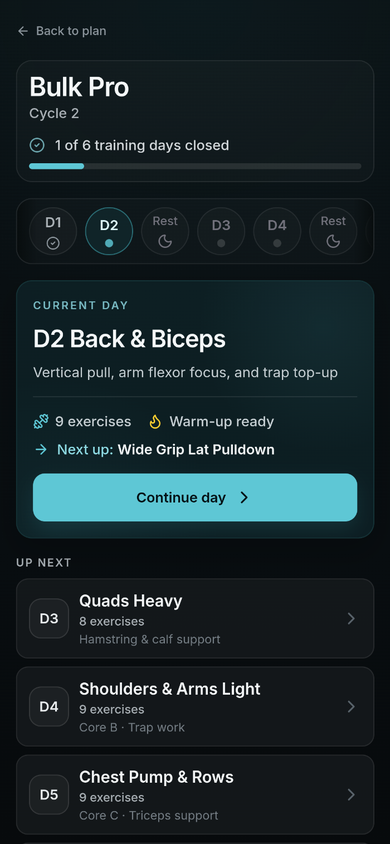
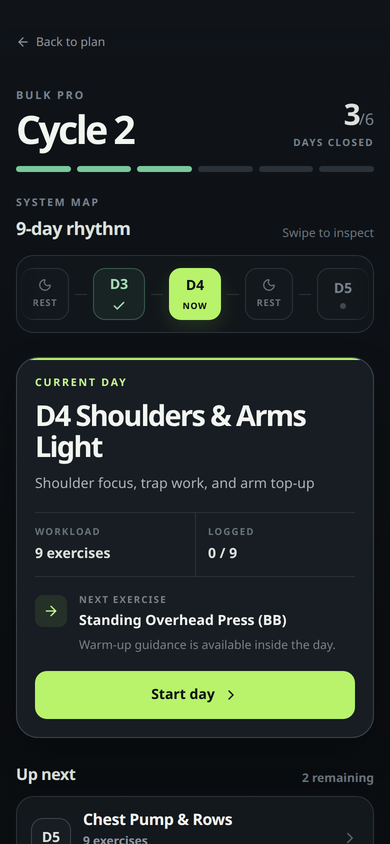
docs: finalize README and refreshed screenshots

diff --git a/README.md b/README.md
@@ -13,7 +13,7 @@ Continuity across the cycle.
 
 Users can see what to do, how to approach it, what they logged previously, and what comes next. The cycle-based structure keeps training order stable when real-life schedules change without turning flexibility into random workout selection.
 
-The current release is intentionally local-first and MVP-scoped. It focuses on validating the product flow, training-state model, persistence logic, educational layer, and mobile workout experience before adding accounts, cloud sync, payments, or broader customization.
+Version 0.6.0 is the current **Limited Public Preview** release. The MVP remains intentionally local-first and focused on validating the product flow, training-state model, persistence logic, educational layer, and mobile workout experience before accounts, cloud sync, payments, or broader customization are introduced.
 
 ---
 
@@ -21,9 +21,7 @@ The current release is intentionally local-first and MVP-scoped. It focuses on v
 
 Firebase Hosting:
 
-```text
-https://training-app-mvp.web.app
-```
+[Open Cycle Coach](https://training-app-mvp.web.app/)
 
 Current application version:
 
@@ -46,6 +44,7 @@ Workout progress is stored locally in the browser. Normal Firebase Hosting reque
 ## Table of Contents
 
 - [Overview](#overview)
+- [Screenshots](#screenshots)
 - [Core Features](#core-features)
 - [App Flow](#app-flow)
 - [Public Preview Surfaces](#public-preview-surfaces)
@@ -59,7 +58,6 @@ Workout progress is stored locally in the browser. Normal Firebase Hosting reque
 - [Tech Stack](#tech-stack)
 - [Running Locally](#running-locally)
 - [Verification](#verification)
-- [Screenshots](#screenshots)
 - [Current Status](#current-status)
 - [MVP Scope](#mvp-scope)
 - [Known MVP Limitations](#known-mvp-limitations)
@@ -115,6 +113,31 @@ Know what to do.
 Know how to approach it.
 Know what comes next.
 ```
+
+---
+
+## Screenshots
+
+Real **v0.6.0 — Limited Public Preview** production screens in the **Cold Performance / Structured Coaching** interface, using isolated demonstration progress.
+
+Follow the flow from plan selection through an active Bulk Pro cycle, exercise and Core logging, training guidance, and a completed-cycle recap. Each full image is captured at **390 × 844 CSS pixels, DPR 2** (780 × 1688 PNG). Select a thumbnail to open the full-resolution image.
+
+<p align="center">
+   <a href="docs/screenshots/home.png"><img src="docs/screenshots/thumbs/home.png" alt="Cycle Coach home with four training benefits and plan selection" width="230" /></a>
+   <a href="docs/screenshots/plan-overview.png"><img src="docs/screenshots/thumbs/plan-overview.png" alt="Bulk Pro overview with Cycle 2 progress and the plan contract" width="230" /></a>
+   <a href="docs/screenshots/cycle-dashboard.png"><img src="docs/screenshots/thumbs/cycle-dashboard.png" alt="Bulk Pro Cycle 2 dashboard with 3 of 6 days closed and D4 current" width="230" /></a>
+</p>
+
+<p align="center">
+   <a href="docs/screenshots/day-screen.png"><img src="docs/screenshots/thumbs/day-screen.png" alt="D4 Shoulders and Arms Light with the next exercise and workout sequence" width="230" /></a>
+   <a href="docs/screenshots/exercise-logging.png"><img src="docs/screenshots/thumbs/exercise-logging.png" alt="Standing Overhead Press logging with two performed sets and previous values" width="230" /></a>
+   <a href="docs/screenshots/core-workflow.png"><img src="docs/screenshots/thumbs/core-workflow.png" alt="D4 Core B support work with Hanging Knee Raise instructions and logged sets" width="230" /></a>
+</p>
+
+<p align="center">
+   <a href="docs/screenshots/guide.png"><img src="docs/screenshots/thumbs/guide.png" alt="Bulk Pro Guide explaining progression and practical training rules" width="230" /></a>
+   <a href="docs/screenshots/end-cycle.png"><img src="docs/screenshots/thumbs/end-cycle.png" alt="Completed Cycle 2 recap with 52 logged exercises, two partial days, and three Core blocks" width="230" /></a>
+</p>
 
 ---
 
@@ -433,8 +456,8 @@ High-level state shape:
 
 ```js
 {
-  selectedPlanId: null,
-  progressByPlan: {}
+   selectedPlanId: null,
+   progressByPlan: {}
 }
 ```
 
@@ -482,12 +505,12 @@ Stored wrapper:
 
 ```js
 {
-  version: 1,
-  savedAt: "ISO timestamp",
-  state: {
-    selectedPlanId: null,
-    progressByPlan: {}
-  }
+   version: 1,
+   savedAt: "ISO timestamp",
+   state: {
+     selectedPlanId: null,
+     progressByPlan: {}
+   }
 }
 ```
 
@@ -531,14 +554,14 @@ High-level structure:
 
 ```text
 src/data/
-  plans/
-  days/
-  dayDetails/
-  exercises/
-  core/
-  warmups/
-  guides/
-  contextualHelp/
+   plans/
+   days/
+   dayDetails/
+   exercises/
+   core/
+   warmups/
+   guides/
+   contextualHelp/
 ```
 
 Static data owns:
@@ -571,9 +594,9 @@ Example:
 
 ```js
 {
-  id: "smith-bench-press",
-  prescription: "4 x 5-7",
-  setCount: 4
+   id: "smith-bench-press",
+   prescription: "4 x 5-7",
+   setCount: 4
 }
 ```
 
@@ -581,8 +604,8 @@ Core exercises also use metadata such as:
 
 ```js
 {
-  logType: "reps" | "time",
-  tracksLoad: true | false
+   logType: "reps" | "time",
+   tracksLoad: true | false
 }
 ```
 
@@ -686,14 +709,14 @@ Desktop intentionally uses a centered mobile-first app shell rather than a full 
 
 ```text
 src/
-  app/
-  components/
-  data/
-  pages/
-  state/
-  storage/
-  styles/
-  utils/
+   app/
+   components/
+   data/
+   pages/
+   state/
+   storage/
+   styles/
+   utils/
 ```
 
 Key areas:
@@ -740,14 +763,14 @@ This project uses npm and includes a committed `package-lock.json`.
 Recommended environment:
 
 ```text
-Node.js 20+
+Node.js 22 recommended (matches CI)
 npm
 ```
 
-Install dependencies:
+Install the locked dependency tree:
 
 ```bash
-npm install
+npm ci
 ```
 
 Start development server:
@@ -778,38 +801,41 @@ npm run preview
 
 ## Verification
 
-The current limited-public-preview release gate includes:
+The v0.6.0 release was verified across the approved release candidate, merged `main`, Firebase Hosting production, and a final browser smoke test.
 
-```bash
-git diff --check
-npm run lint
-npm run build
-npm audit
-npm audit --omit=dev
-```
-
-Current pre-merge verification status:
+Release checkpoint:
 
 ```text
-git diff check passed
-lint passed
-production build passed
-npm audit passed with 0 vulnerabilities
-npm audit --omit=dev passed with 0 vulnerabilities
-final whole-app release audit passed
-targeted Core-route blocker regression passed
-QA Firebase Hosting preview refreshed from the approved candidate
-published QA assets matched the local production build
-expected Firebase Hosting security headers verified
+main commit: a2af280392be3ef091dd492cc2a595da1a8337c2
+tag: v0.6.0
+release: v0.6.0 — Limited Public Preview
 ```
+
+Verified release gates:
+
+- final whole-app release audit -> PASS
+- targeted invalid-Core-route regression for Bulk Pro and Cut Pro -> PASS
+- GitHub Actions CI on merged `main` -> PASS
+- `npm ci` -> PASS
+- `git diff --check` -> PASS
+- `npm run lint` -> PASS
+- `npm run build` -> PASS
+- `npm audit` -> 0 vulnerabilities
+- `npm audit --omit=dev` -> 0 vulnerabilities
+- Firebase Hosting production deploy -> PASS
+- production JS/CSS asset identity -> matched the approved build
+- production Hosting security headers -> verified
+- production browser smoke -> PASS
+- Git tag `v0.6.0` -> published
+- GitHub Release `v0.6.0 — Limited Public Preview` -> published
 
 The final release audit initially found one persistent-state blocker involving an invalid Core deep link. The issue was fixed with a minimal route-guard change and then rechecked for both Bulk Pro and Cut Pro before the release gate was marked PASS.
 
-Production deployment and a final production smoke check are the remaining environment-level closeout steps before external preview use.
+The final production smoke covered the live app load, public-info routes and direct refresh, first-start safety acknowledgement, set logging with refresh persistence, partial-day close behavior, and a final console/network/mobile-layout sanity check.
 
 ### Hosting hardening
 
-Firebase Hosting currently sends:
+Production Firebase Hosting currently sends:
 
 - Content-Security-Policy
 - `X-Content-Type-Options: nosniff`
@@ -817,31 +843,11 @@ Firebase Hosting currently sends:
 - `Referrer-Policy: strict-origin-when-cross-origin`
 - Permissions Policy disabling geolocation, camera, and microphone
 
-Firebase preview channels also carry the expected `noindex` behavior.
+Firebase preview channels also carry the expected `noindex` behavior. The production host was verified without the preview-only `x-robots-tag`.
 
 ### Build note
 
 Vite may report a chunk-size warning above 500 kB after production build. This is currently accepted as a non-blocking MVP limitation and can be revisited post-MVP with route-level code splitting if needed.
-
----
-
-## Screenshots
-
-The screenshot slots below represent the main mobile-first product flow. The image files should be refreshed with the current Cold Performance / Structured Coaching redesign before the repository is presented publicly.
-
-<p>
-  <a href="docs/screenshots/home.png"><img src="docs/screenshots/thumbs/home.png" alt="Cycle Coach home screen" width="180" /></a>
-  <a href="docs/screenshots/plan-overview.png"><img src="docs/screenshots/thumbs/plan-overview.png" alt="Cycle Coach plan overview screen" width="180" /></a>
-  <a href="docs/screenshots/cycle-dashboard.png"><img src="docs/screenshots/thumbs/cycle-dashboard.png" alt="Cycle Coach cycle dashboard screen" width="180" /></a>
-  <a href="docs/screenshots/day-screen.png"><img src="docs/screenshots/thumbs/day-screen.png" alt="Cycle Coach day screen" width="180" /></a>
-</p>
-
-<p>
-  <a href="docs/screenshots/exercise-logging.png"><img src="docs/screenshots/thumbs/exercise-logging.png" alt="Cycle Coach exercise logging screen" width="180" /></a>
-  <a href="docs/screenshots/core-workflow.png"><img src="docs/screenshots/thumbs/core-workflow.png" alt="Cycle Coach Core workflow screen" width="180" /></a>
-  <a href="docs/screenshots/guide.png"><img src="docs/screenshots/thumbs/guide.png" alt="Cycle Coach training guide screen" width="180" /></a>
-  <a href="docs/screenshots/end-cycle.png"><img src="docs/screenshots/thumbs/end-cycle.png" alt="Cycle Coach end-cycle recap screen" width="180" /></a>
-</p>
 
 ---
 
@@ -851,9 +857,9 @@ The screenshot slots below represent the main mobile-first product flow. The ima
 0.6.0 — Limited Public Preview
 ```
 
-The local-first MVP is implemented and has passed the final pre-merge release gate.
+The local-first MVP is now merged into `main`, deployed to production Firebase Hosting, production-smoke verified, tagged, and published as **v0.6.0 — Limited Public Preview**.
 
-Completed release-readiness work includes:
+Completed release work includes:
 
 - structured Bulk Pro / Cut Pro runtime
 - cycle-based workout flow
@@ -866,20 +872,19 @@ Completed release-readiness work includes:
 - Firebase Hosting security headers
 - targeted accessibility smoke and fixes
 - final whole-app read-only release audit
-- confirmed Core-route blocker fix
+- confirmed invalid-Core-route blocker fix
 - final targeted blocker re-check with PASS
+- merge of the approved release candidate into `main`
+- merged-main CI, lint, build, and dependency-audit verification
+- production Firebase Hosting deployment
+- production asset and security-header verification
+- production browser smoke
+- `v0.6.0` tag
+- published GitHub Release
 
-Remaining release-closeout work:
+**v0.6.0 — Limited Public Preview** is released. The source-of-truth documentation is synchronized, and the redesigned screenshot gallery is complete. Targeted real-user validation is the next product stage; observed usage and feedback will inform future product decisions.
 
-```text
-merge approved release candidate -> main
-run main-branch verification
-deploy main to production Firebase Hosting
-run production smoke / network / storage / header checks
-begin limited external validation
-```
-
-The repository contains an older private-preview history, but the current README describes the present limited-public-preview candidate and current MVP behavior.
+The repository still preserves older private-preview history, but the current code, README, live deployment, and release metadata describe the present v0.6.0 Limited Public Preview.
 
 ---
 
@@ -957,7 +962,6 @@ Possible post-MVP directions:
 - machine setup guidance
 - rest/LISS module
 - improved desktop layout
-- refreshed portfolio screenshot gallery and case study
 - automated test coverage
 
 These are intentionally outside the current local-first MVP scope.
@@ -981,7 +985,7 @@ This project was built as a complete product-style MVP, not only as a UI prototy
 - using contextual guidance and progressive disclosure
 - modeling honest partial completion instead of forcing perfect states
 - maintaining a clear MVP boundary around local-first behavior
-- preparing a real product for limited external validation
+- shipping a real product into limited external validation
 
 ### Frontend architecture
 
@@ -1005,8 +1009,9 @@ This project was built as a complete product-style MVP, not only as a UI prototy
 - dependency and Hosting security review
 - accessibility regression smoke
 - lint, build, and audit verification
-- Firebase Hosting preview validation
+- Firebase Hosting preview and production validation
 - GitHub Actions CI
+- production release tagging and GitHub Release workflow
 - explicit scope decisions, accepted limitations, and post-MVP boundaries
 
 ---
